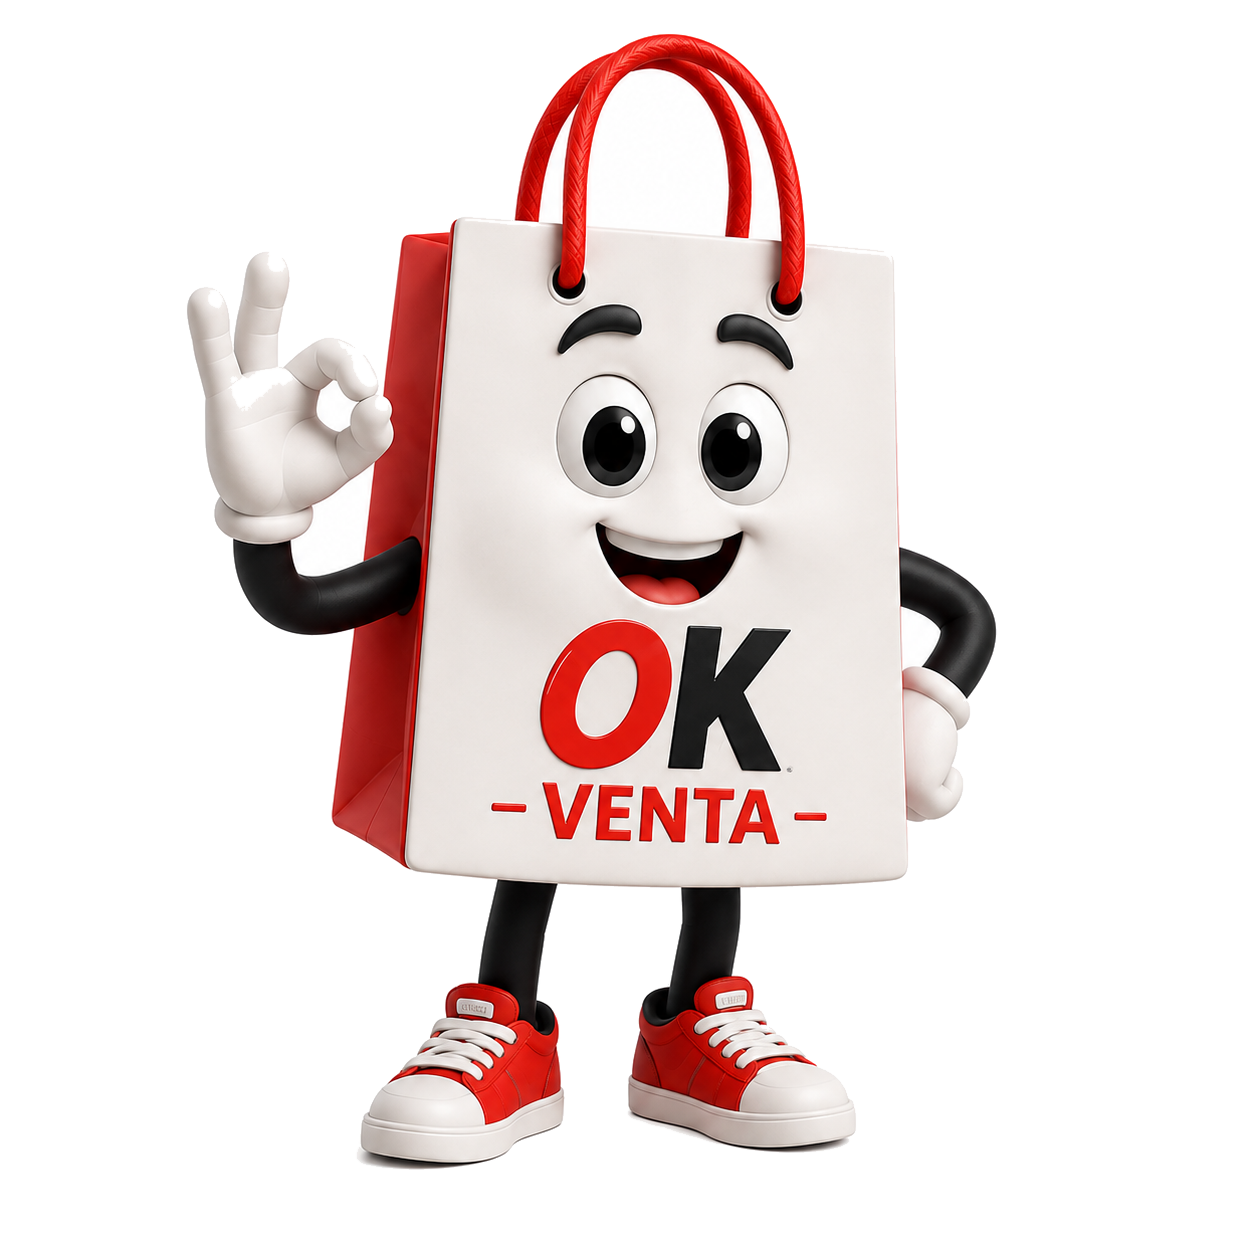
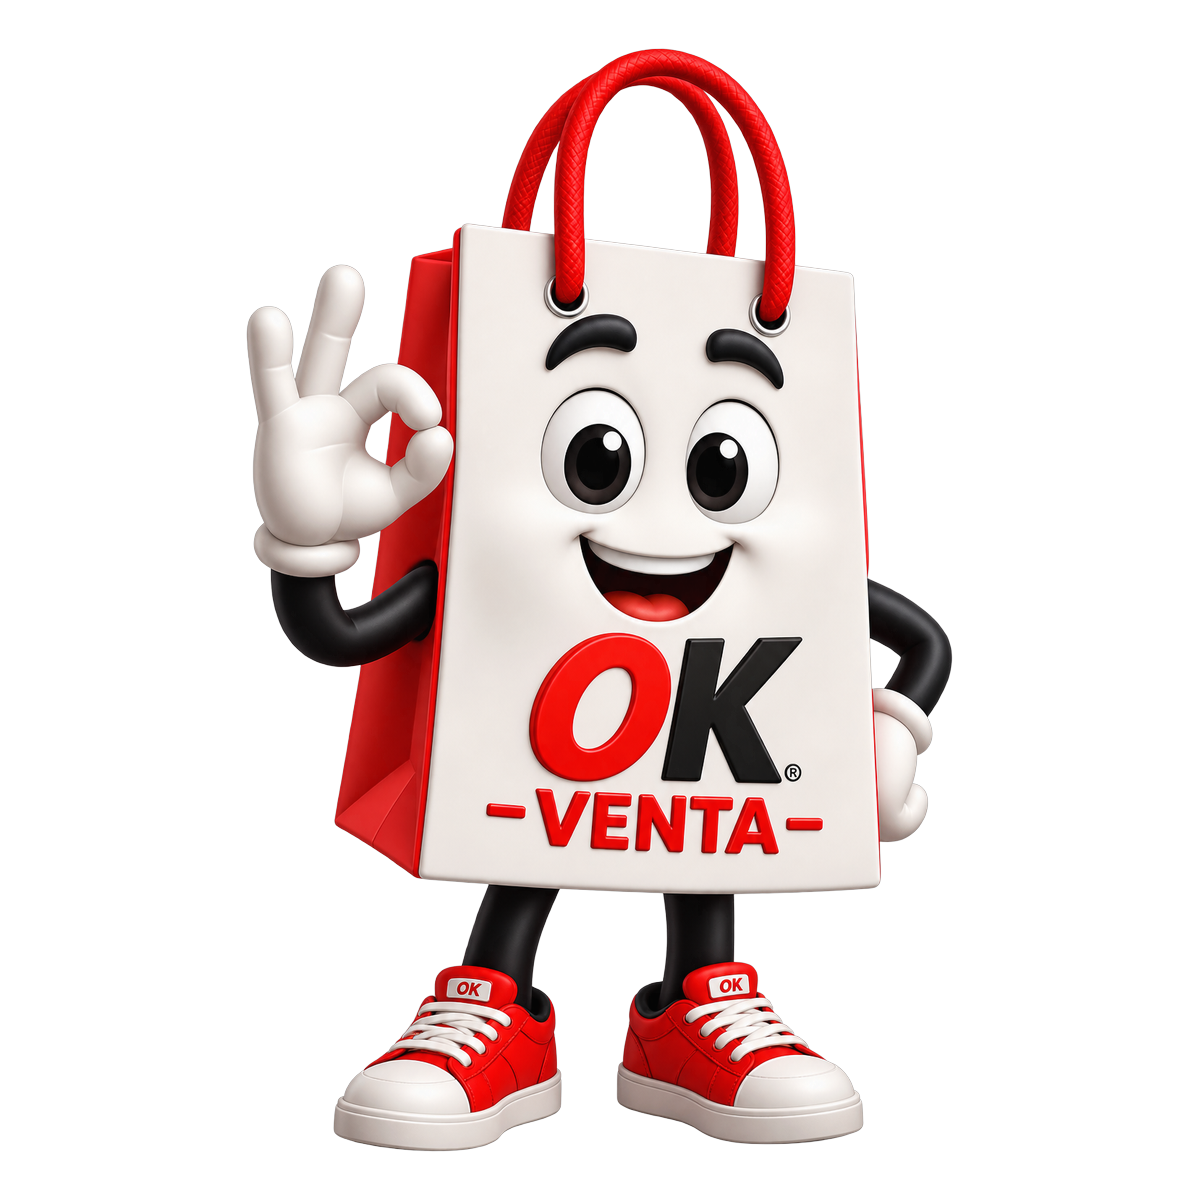
Reemplaza el telefono por okventin en modo oscuro (home, login, mi cuenta, vender, chat, servicios)

Changed region(s): [[0.1542, 0.0, 0.8017, 0.9867]]

diff --git a/app/lib/screens/confirmacion_screen.dart b/app/lib/screens/confirmacion_screen.dart
@@ -9,6 +9,7 @@ import 'package:image_picker/image_picker.dart';
 
 import '../services/api_service.dart';
 import '../services/session_service.dart';
+import '../services/theme_service.dart';
 import '../theme/app_theme.dart';
 import '../widgets/space_invaders_widget.dart';
 import '../widgets/tipo_publicacion_selector.dart';
@@ -1623,9 +1624,19 @@ class _ConfirmacionScreenState extends State<ConfirmacionScreen> {
           Padding(
             padding: const EdgeInsets.only(right: 16),
             child: Center(
-              // +30% igual que el logo del home (28 -> 36)
-              child: Image.asset('assets/images/chekin.png',
-                  width: 36, height: 36),
+              // +30% igual que el logo del home (28 -> 36). Celular en modo
+              // claro, okventin (variante vender, misma cadena de publicar)
+              // en modo oscuro.
+              child: ValueListenableBuilder<bool>(
+                valueListenable: ThemeService.isDarkNotifier,
+                builder: (_, isDark, __) {
+                  return Image.asset(
+                    isDark ? 'assets/images/okventin_vender.png' : 'assets/images/chekin.png',
+                    width: 36,
+                    height: 36,
+                  );
+                },
+              ),
             ),
           ),
         ],

diff --git a/app/lib/screens/venta_manual_screen.dart b/app/lib/screens/venta_manual_screen.dart
@@ -7,6 +7,7 @@ import 'package:image_picker/image_picker.dart';
 
 import '../services/api_service.dart';
 import '../services/session_service.dart';
+import '../services/theme_service.dart';
 import '../theme/app_theme.dart';
 import '../widgets/space_invaders_widget.dart';
 import '../widgets/tipo_publicacion_selector.dart';
@@ -332,9 +333,18 @@ class _VentaManualScreenState extends State<VentaManualScreen> {
           Padding(
             padding: const EdgeInsets.only(right: 16),
             child: Center(
-              // +30% igual que el logo del home (28 -> 36)
-              child: Image.asset('assets/images/chekin.png',
-                  width: 36, height: 36),
+              // +30% igual que el logo del home (28 -> 36). Celular en modo
+              // claro, okventin (variante vender) en modo oscuro.
+              child: ValueListenableBuilder<bool>(
+                valueListenable: ThemeService.isDarkNotifier,
+                builder: (_, isDark, __) {
+                  return Image.asset(
+                    isDark ? 'assets/images/okventin_vender.png' : 'assets/images/chekin.png',
+                    width: 36,
+                    height: 36,
+                  );
+                },
+              ),
             ),
           ),
         ],

diff --git a/app/lib/screens/vender_screen.dart b/app/lib/screens/vender_screen.dart
@@ -5,6 +5,7 @@ import 'package:http/http.dart' as http;
 
 import '../services/api_service.dart';
 import '../services/session_service.dart';
+import '../services/theme_service.dart';
 import '../theme/app_theme.dart';
 import '../widgets/space_invaders_widget.dart';
 import 'confirmacion_screen.dart';
@@ -136,8 +137,17 @@ class _VenderScreenState extends State<VenderScreen> {
       // Bug fix: evita que el teclado residual comprima la pantalla de carga.
       resizeToAvoidBottomInset: false,
       appBar: AppBar(
-        // +30% igual que el logo del home (36 -> 47)
-        title: Image.asset('assets/images/chekin.png', height: 47),
+        // +30% igual que el logo del home (36 -> 47). Celular en modo
+        // claro, okventin (variante vender) en modo oscuro.
+        title: ValueListenableBuilder<bool>(
+          valueListenable: ThemeService.isDarkNotifier,
+          builder: (_, isDark, __) {
+            return Image.asset(
+              isDark ? 'assets/images/okventin_vender.png' : 'assets/images/chekin.png',
+              height: 47,
+            );
+          },
+        ),
         centerTitle: false,
         backgroundColor: colors.surface,
         elevation: 0,

diff --git a/app/lib/screens/auth/login_screen.dart b/app/lib/screens/auth/login_screen.dart
@@ -3,6 +3,7 @@ import 'package:firebase_auth/firebase_auth.dart';
 
 import '../../services/auth_service.dart';
 import '../../services/biometric_service.dart';
+import '../../services/theme_service.dart';
 import '../../theme/app_theme.dart';
 import '../home_screen.dart';
 
@@ -211,8 +212,17 @@ class _LoginScreenState extends State<LoginScreen> {
           child: Column(
             crossAxisAlignment: CrossAxisAlignment.start,
             children: [
-              // Logo (dinámico según pantalla) — mismo +30% que en el home
-              Image.asset('assets/images/home.png', height: 57),
+              // Logo: celular en modo claro, okventin en modo oscuro (sin
+              // fondo cuadrado) — mismo +30% que en el home.
+              ValueListenableBuilder<bool>(
+                valueListenable: ThemeService.isDarkNotifier,
+                builder: (_, isDark, __) {
+                  return Image.asset(
+                    isDark ? 'assets/images/okventin.png' : 'assets/images/home.png',
+                    height: 57,
+                  );
+                },
+              ),
               const SizedBox(height: 36),
 
               // Headline

diff --git a/app/lib/screens/servicios_screen.dart b/app/lib/screens/servicios_screen.dart
@@ -8,6 +8,7 @@ import 'package:shared_preferences/shared_preferences.dart';
 
 import '../services/api_service.dart';
 import '../services/session_service.dart';
+import '../services/theme_service.dart';
 import '../theme/app_theme.dart';
 import 'agregar_servicio_screen.dart';
 import 'delivery_proximamente_screen.dart';
@@ -478,8 +479,17 @@ class _ListaServiciosState extends State<_ListaServicios> {
         child: Column(
           mainAxisAlignment: MainAxisAlignment.center,
           children: [
-            Icon(Icons.handyman_outlined,
-                size: 64, color: colors.grayMid.withOpacity(0.4)),
+            ValueListenableBuilder<bool>(
+              valueListenable: ThemeService.isDarkNotifier,
+              builder: (_, isDark, __) {
+                if (isDark) {
+                  return Image.asset('assets/images/okventin_servicios.png',
+                      height: 64);
+                }
+                return Icon(Icons.handyman_outlined,
+                    size: 64, color: colors.grayMid.withOpacity(0.4));
+              },
+            ),
             const SizedBox(height: 16),
             Text(
               sinResultados

diff --git a/app/lib/widgets/registro_form_widget.dart b/app/lib/widgets/registro_form_widget.dart
@@ -1,5 +1,6 @@
 import 'package:flutter/material.dart';
 import 'package:firebase_auth/firebase_auth.dart';
+import '../services/theme_service.dart';
 import '../theme/app_theme.dart';
 
 class RegistroFormWidget extends StatefulWidget {
@@ -149,8 +150,17 @@ class _RegistroFormWidgetState extends State<RegistroFormWidget> {
         // Header
         Row(
           children: [
-            // +30% igual que el logo del home (30 -> 39)
-            Image.asset('assets/images/home.png', height: 39),
+            // +30% igual que el logo del home (30 -> 39). Celular en modo
+            // claro, okventin en modo oscuro (sin fondo cuadrado).
+            ValueListenableBuilder<bool>(
+              valueListenable: ThemeService.isDarkNotifier,
+              builder: (_, isDark, __) {
+                return Image.asset(
+                  isDark ? 'assets/images/okventin.png' : 'assets/images/home.png',
+                  height: 39,
+                );
+              },
+            ),
             Expanded(
               child: Center(
                 child: Text(

diff --git a/app/lib/screens/ayuda_chat_screen.dart b/app/lib/screens/ayuda_chat_screen.dart
@@ -3,6 +3,7 @@ import 'package:flutter/material.dart';
 
 import '../services/api_service.dart';
 import '../services/session_service.dart';
+import '../services/theme_service.dart';
 import '../theme/app_theme.dart';
 
 class AyudaChatScreen extends StatefulWidget {
@@ -231,8 +232,16 @@ class _AyudaChatScreenState extends State<AyudaChatScreen> {
                     ),
                   ],
                   const SizedBox(width: 10),
-                  Image.asset('assets/images/mensajes.png',
-                      width: 26, height: 26),
+                  ValueListenableBuilder<bool>(
+                    valueListenable: ThemeService.isDarkNotifier,
+                    builder: (_, isDark, __) {
+                      return Image.asset(
+                        isDark ? 'assets/images/okventin_chat.png' : 'assets/images/mensajes.png',
+                        width: 26,
+                        height: 26,
+                      );
+                    },
+                  ),
                 ],
               ),
             ),

diff --git a/app/lib/screens/chat_screen.dart b/app/lib/screens/chat_screen.dart
@@ -8,6 +8,7 @@ import 'package:url_launcher/url_launcher.dart';
 
 import '../services/api_service.dart';
 import '../services/session_service.dart';
+import '../services/theme_service.dart';
 import '../theme/app_theme.dart';
 import '../widgets/net_image.dart';
 import 'producto_detalle_screen.dart';
@@ -779,8 +780,16 @@ class _ChatScreenState extends State<ChatScreen> {
           Padding(
             padding: const EdgeInsets.only(right: 16),
             child: Center(
-              child: Image.asset('assets/images/mensajes.png',
-                  width: 26, height: 26),
+              child: ValueListenableBuilder<bool>(
+                valueListenable: ThemeService.isDarkNotifier,
+                builder: (_, isDark, __) {
+                  return Image.asset(
+                    isDark ? 'assets/images/okventin_chat.png' : 'assets/images/mensajes.png',
+                    width: 26,
+                    height: 26,
+                  );
+                },
+              ),
             ),
           ),
         ],

diff --git a/app/lib/screens/mensajes_screen.dart b/app/lib/screens/mensajes_screen.dart
@@ -3,6 +3,7 @@ import 'package:flutter/material.dart';
 
 import '../services/api_service.dart';
 import '../services/session_service.dart';
+import '../services/theme_service.dart';
 import '../theme/app_theme.dart';
 import 'chat_screen.dart';
 import '../widgets/net_image.dart';
@@ -92,8 +93,16 @@ class _MensajesScreenState extends State<MensajesScreen> {
           Padding(
             padding: const EdgeInsets.only(right: 16),
             child: Center(
-              child: Image.asset('assets/images/mensajes.png',
-                  width: 28, height: 28),
+              child: ValueListenableBuilder<bool>(
+                valueListenable: ThemeService.isDarkNotifier,
+                builder: (_, isDark, __) {
+                  return Image.asset(
+                    isDark ? 'assets/images/okventin_chat.png' : 'assets/images/mensajes.png',
+                    width: 28,
+                    height: 28,
+                  );
+                },
+              ),
             ),
           ),
         ],

diff --git a/app/lib/screens/soporte_chat_screen.dart b/app/lib/screens/soporte_chat_screen.dart
@@ -2,6 +2,7 @@ import 'package:flutter/material.dart';
 
 import '../services/api_service.dart';
 import '../services/session_service.dart';
+import '../services/theme_service.dart';
 import '../theme/app_theme.dart';
 
 /// Chat con el agente de soporte IA de OkVenta.
@@ -188,8 +189,16 @@ class _SoporteChatScreenState extends State<SoporteChatScreen> {
           Padding(
             padding: const EdgeInsets.only(right: 16),
             child: Center(
-              child: Image.asset('assets/images/mensajes.png',
-                  width: 26, height: 26),
+              child: ValueListenableBuilder<bool>(
+                valueListenable: ThemeService.isDarkNotifier,
+                builder: (_, isDark, __) {
+                  return Image.asset(
+                    isDark ? 'assets/images/okventin_chat.png' : 'assets/images/mensajes.png',
+                    width: 26,
+                    height: 26,
+                  );
+                },
+              ),
             ),
           ),
         ],

diff --git a/app/lib/screens/mi_cuenta_screen.dart b/app/lib/screens/mi_cuenta_screen.dart
@@ -725,8 +725,17 @@ class _MiCuentaScreenState extends State<MiCuentaScreen> {
                         size: 20, color: colors.textPrimary),
                   ),
                   const SizedBox(width: 12),
-                  // +30% igual que en el home (38 -> 49)
-                  Image.asset('assets/images/home.png', height: 49),
+                  // +30% igual que en el home (38 -> 49). Celular en modo
+                  // claro, okventin en modo oscuro (sin fondo cuadrado).
+                  ValueListenableBuilder<bool>(
+                    valueListenable: ThemeService.isDarkNotifier,
+                    builder: (_, isDark, __) {
+                      return Image.asset(
+                        isDark ? 'assets/images/okventin.png' : 'assets/images/home.png',
+                        height: 49,
+                      );
+                    },
+                  ),
                   const Spacer(),
                   _avatar(size: 44),
                 ],
